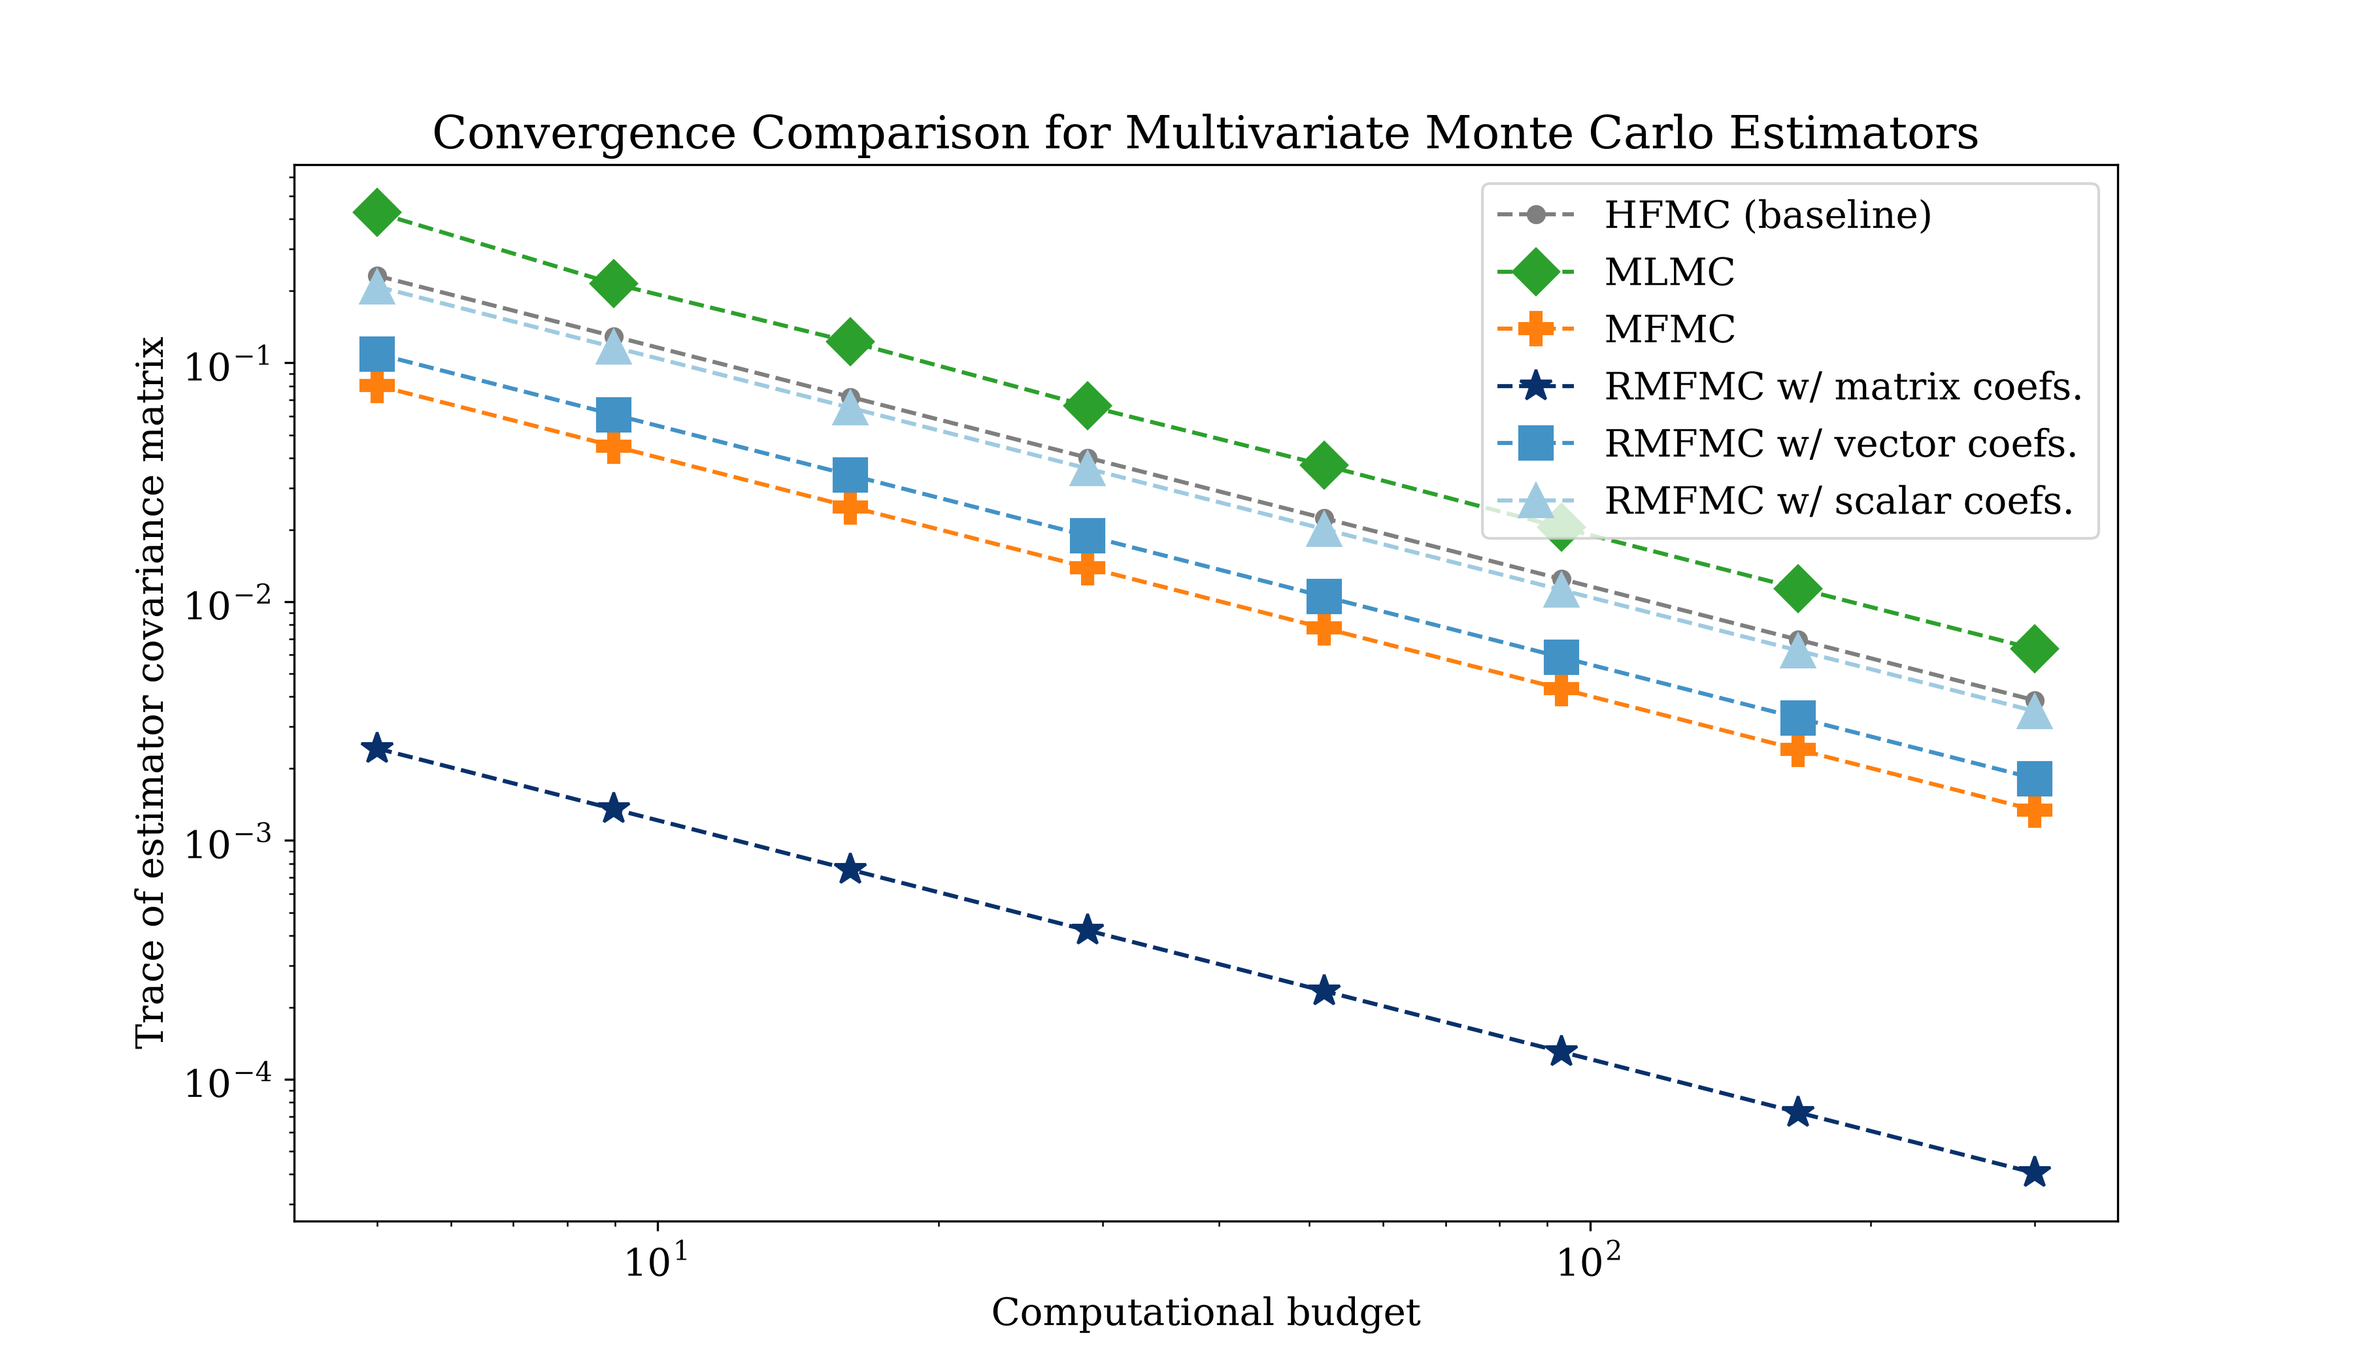
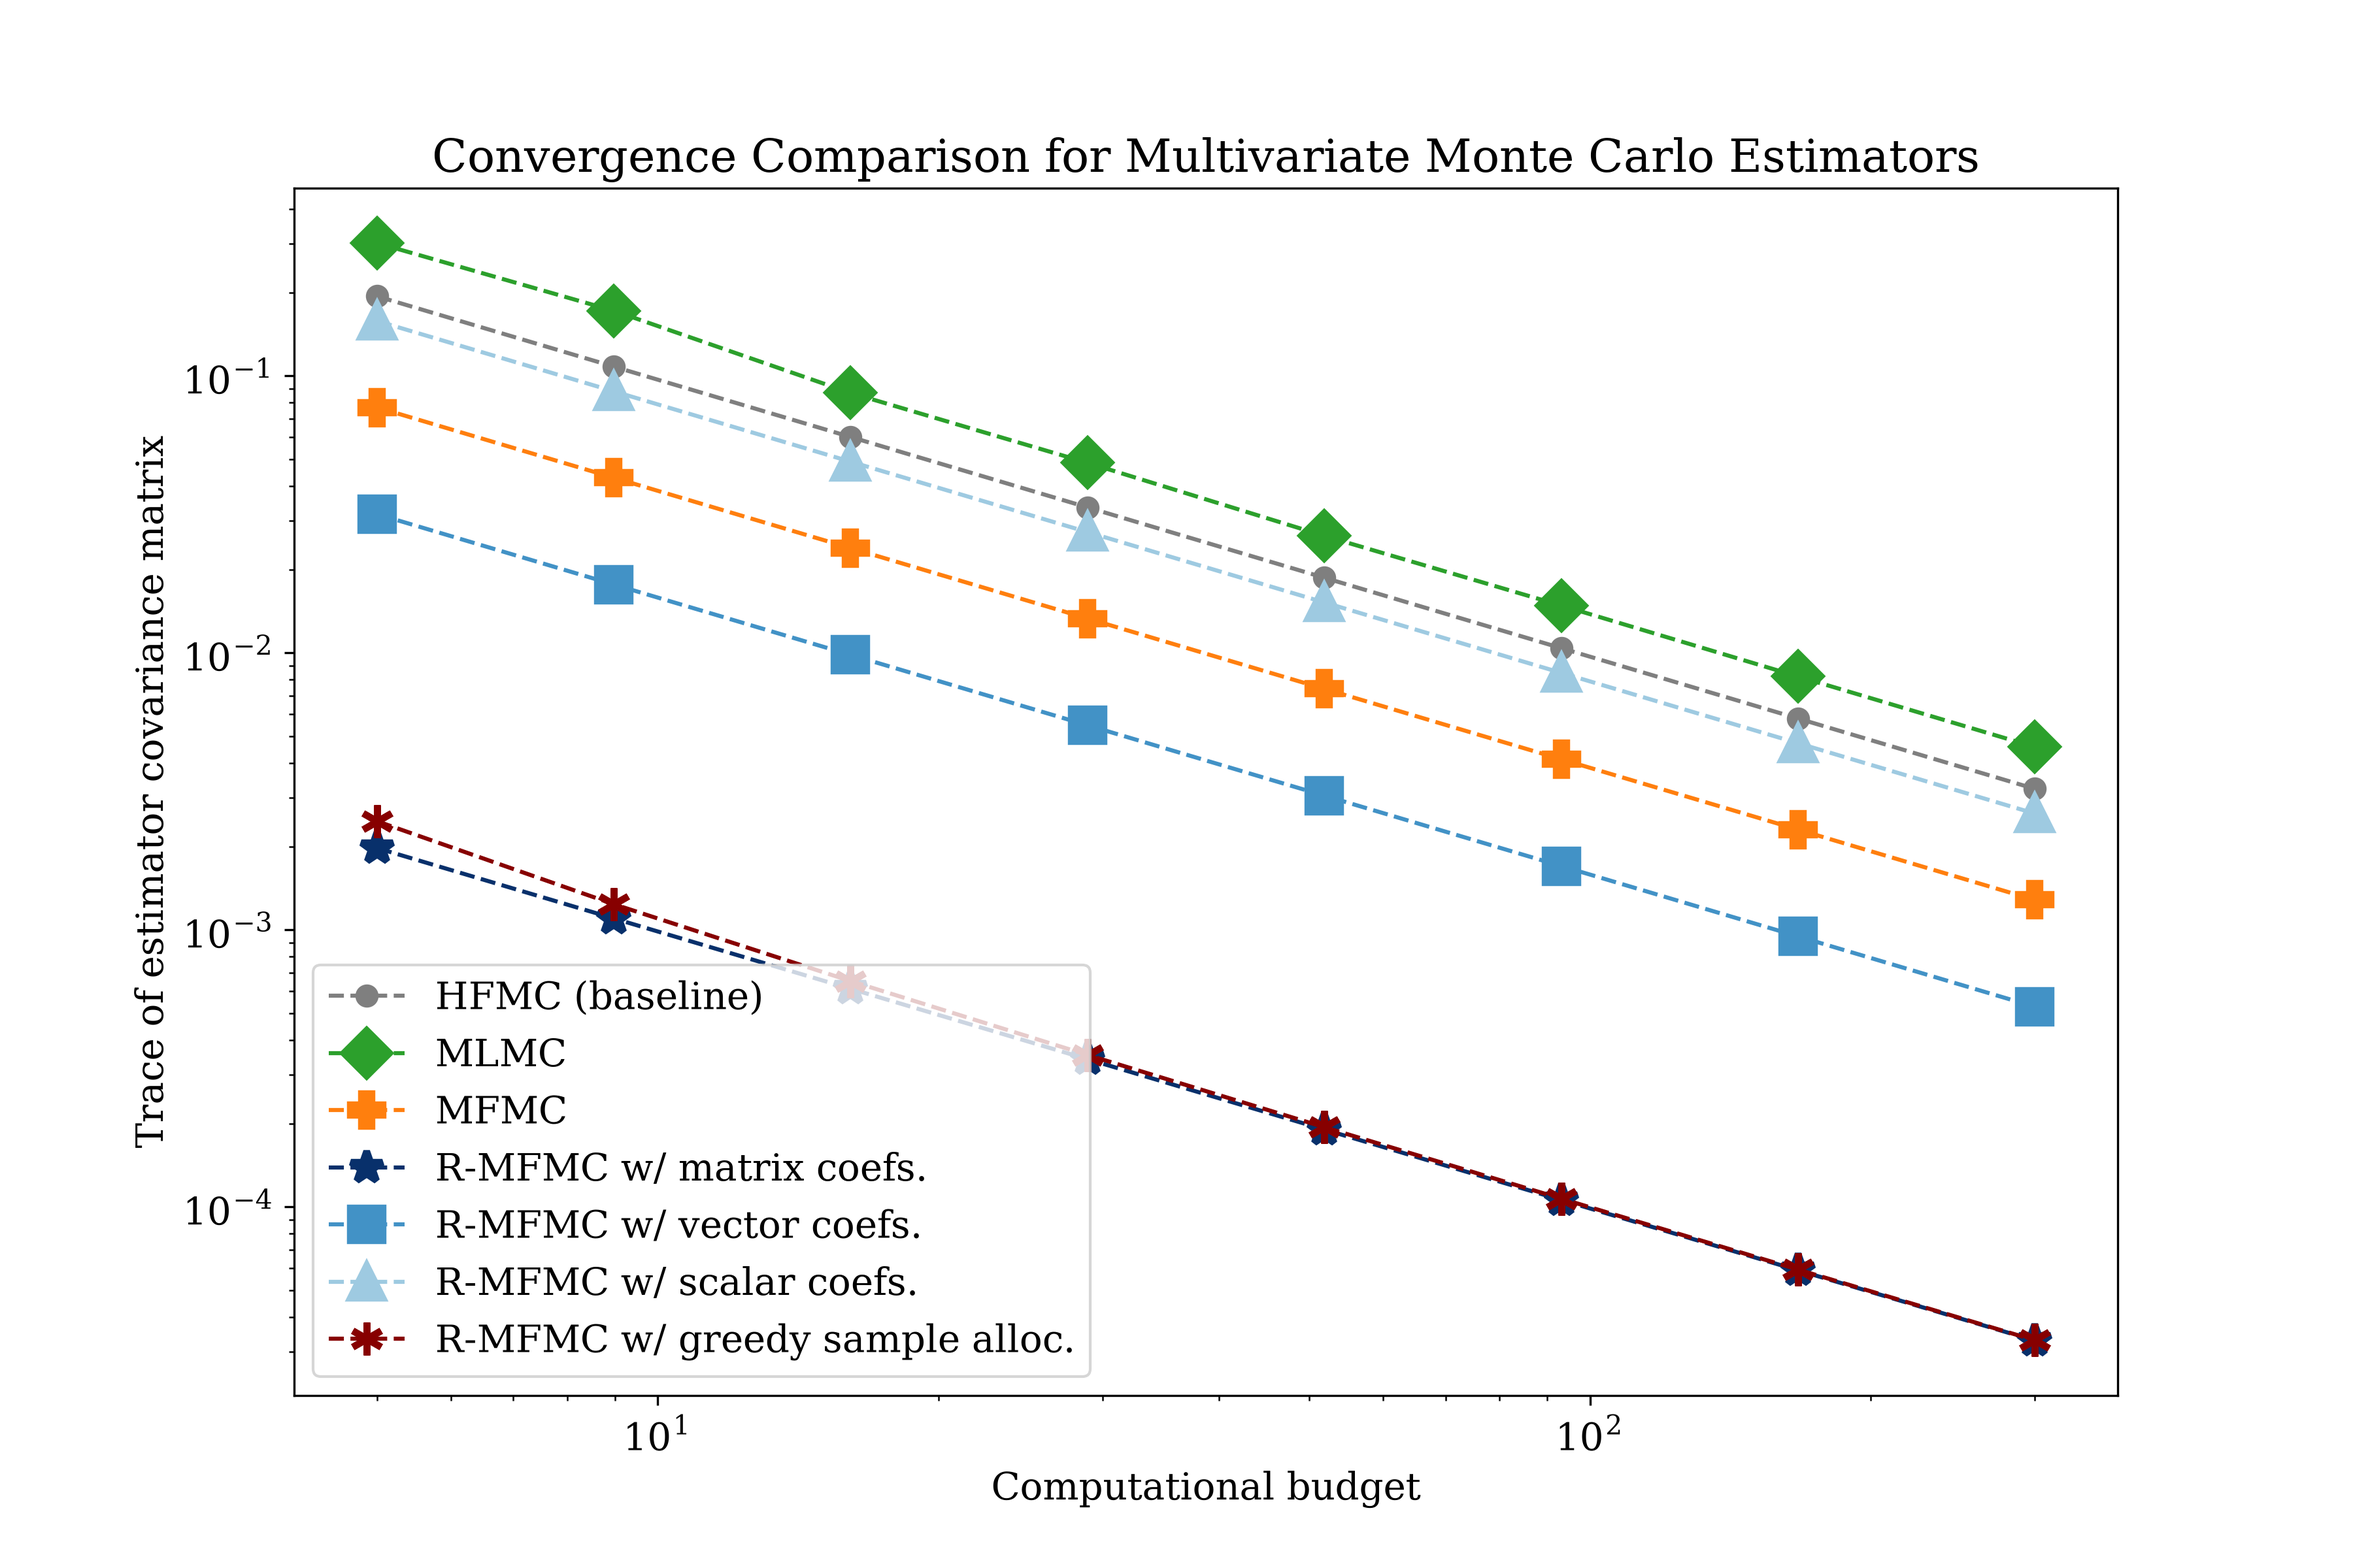
updating numerics for R-MFMC paper

diff --git a/experiments/multifidelity/monte-carlo/darcy_benchmark.py b/experiments/multifidelity/monte-carlo/darcy_benchmark.py
@@ -10,19 +10,19 @@ from matplotlib.pyplot import *
 
 
 # declaring the permeability fields
-HF_DIM, MF_DIM, LF_DIM = 64, 24, 12
+REFERENCE_DIM, HF_DIM, MF_DIM, LF_DIM = 64, 64, 32, 16
 LENGTH_SCALE, KL_TERMS, GRF_MEAN, GRF_STD = 0.15, 64, 0.0, 1.0 
 
-lf_perm = GRFInput(name='permeability', grid_dim=LF_DIM, length_scale=LENGTH_SCALE, n_kl_terms=KL_TERMS, grf_mean=GRF_MEAN, grf_std=GRF_STD, reference_grid_dim=HF_DIM)
-mf_perm = GRFInput(name='permeability', grid_dim=MF_DIM, length_scale=LENGTH_SCALE, n_kl_terms=KL_TERMS, grf_mean=GRF_MEAN, grf_std=GRF_STD, reference_grid_dim=HF_DIM)
-hf_perm = GRFInput(name='permeability', grid_dim=HF_DIM, length_scale=LENGTH_SCALE, n_kl_terms=KL_TERMS, grf_mean=GRF_MEAN, grf_std=GRF_STD, reference_grid_dim=HF_DIM)
+lf_perm = GRFInput(name='permeability', grid_dim=LF_DIM, length_scale=LENGTH_SCALE, n_kl_terms=KL_TERMS, grf_mean=GRF_MEAN, grf_std=GRF_STD, reference_grid_dim=REFERENCE_DIM)
+mf_perm = GRFInput(name='permeability', grid_dim=MF_DIM, length_scale=LENGTH_SCALE, n_kl_terms=KL_TERMS, grf_mean=GRF_MEAN, grf_std=GRF_STD, reference_grid_dim=REFERENCE_DIM)
+hf_perm = GRFInput(name='permeability', grid_dim=HF_DIM, length_scale=LENGTH_SCALE, n_kl_terms=KL_TERMS, grf_mean=GRF_MEAN, grf_std=GRF_STD, reference_grid_dim=REFERENCE_DIM)
 
 # declaring the darcy field 
 lf_darcy = DarcyFlowEvaluator(name='low-fidelity darcy flow', inputs=[lf_perm], grid_dim=LF_DIM, cost=1.4149e-04, source_term = "figs/Pi2.png")
 
 mf_darcy = DarcyFlowEvaluator(name='medium-fidelity darcy flow', inputs=[mf_perm], grid_dim=MF_DIM, cost=2.8317e-03, source_term = "figs/Pi2.png")
 
-hf_darcy = DarcyFlowEvaluator(name='medium-fidelity darcy flow', inputs=[hf_perm], grid_dim=HF_DIM, cost=4.4440e-02, source_term = "figs/Pi2.png")
+hf_darcy = DarcyFlowEvaluator(name='high-fidelity darcy flow', inputs=[hf_perm], grid_dim=HF_DIM, cost=4.4440e-02, source_term = "figs/Pi2.png")
 
 
 # visualizing the permeability, forcing, and pressure
@@ -55,7 +55,7 @@ perm_norm = dict(vmin = float(perm_hf.min()), vmax = float(perm_hf.max()))
 force_norm = dict(vmin = float(force_hf.min()), vmax = float(force_hf.max()))
 press_norm = dict(vmin = float(press_hf.min()), vmax = float(press_hf.max()))
 
-fig, axes = subplots(3, 3, figsize=(14,12), dpi = 200)
+fig, axes = subplots(3, 3, figsize=(14,12), dpi = 300)
 
 im_perm = axes[0,0].imshow(perm_hf, cmap = 'viridis', **perm_norm)
 axes[0,0].set_title("Random sample of $\\kappa(\\boldsymbol{x}; \\xi)$")
@@ -120,58 +120,62 @@ rmfmc = RMFMC(
     rcond = 1e-8
 )
 
-rmfmc.get_pilots(jrand.PRNGKey(42), n_pilots = 2000, set_costs = True)
+rmfmc.get_pilots(jrand.PRNGKey(42), n_pilots = 200, set_costs = True)
 true_covs = rmfmc.covs 
 
 #%%
-rmfmc.get_pilots(jrand.PRNGKey(43), n_pilots = 200, set_costs = False, noise_std = 1e-14)
+rmfmc.get_pilots(jrand.PRNGKey(43), n_pilots = 175, set_costs = False, noise_std = 1e-10)
 bad_covs = rmfmc.covs 
-rmfmc.get_matrix_coefs() 
-rmfmc.covs = true_covs
-rmfmc._get_info_coefs() 
 
-# %%
+# %% examining regularized least squares solve
 budget = 1.0
 
 rmfmc.l2_reg, rmfmc.rcond = 1e-8, 1e-8
 rmfmc.covs = bad_covs
 rmfmc.get_matrix_coefs() 
+rmfmc._get_info_coefs()
+good_ms = rmfmc.budget_alloc(budget, warm_start = False)
 
-ms = rmfmc.budget_alloc(budget, warm_start = False)
-rmfmc.covs = true_covs
+rmfmc.covs = true_covs 
 rmfmc._get_info_coefs() 
-print(ms)
+rmfmc_var = rmfmc.get_entry_variance(good_ms).reshape(HF_DIM, HF_DIM)
+print(good_ms)
 
-rmfmc_var = rmfmc.get_entry_variance(ms).reshape(HF_DIM, HF_DIM)
-
-# examining unregularized least squares solve 
-
-rmfmc.l2_reg, rmfmc.rcond = 0.0, 1e-300
+#%%  examining unregularized least squares solve 
+rmfmc.l2_reg, rmfmc.rcond = 3e-16, 1e-300
 rmfmc.covs = bad_covs
 rmfmc.get_matrix_coefs() 
+rmfmc._get_info_coefs()
 bad_ms = rmfmc.budget_alloc(budget, warm_start = False)
-
-
+print(bad_ms) 
 rmfmc.covs = true_covs
 rmfmc._get_info_coefs() 
-unreg_var = rmfmc.get_entry_variance(ms).reshape(HF_DIM, HF_DIM)
+unreg_var = rmfmc.get_entry_variance(bad_ms).reshape(HF_DIM, HF_DIM)
 
 
 
 hfmc = HFMC(
     evaluators = [lf_darcy, hf_darcy]
 )
+hfmc._costs = jnp.copy(rmfmc._costs)
 
 # copying over covariances so don't have to recompute
 hfmc.covs = true_covs 
 
-ms = hfmc.budget_alloc(budget)
+hf_ms = hfmc.budget_alloc(budget)
 
-hfmc_var = hfmc.get_entry_variance(ms).reshape(HF_DIM, HF_DIM)
-
+hfmc_var = hfmc.get_entry_variance(hf_ms).reshape(HF_DIM, HF_DIM)
+hf_ms 
 # %% 
+from matplotlib import colors
 
-figure(figsize=(16,4))
+# Define norm with custom min (-10), center (0), and max (80)
+
+# 2. Create the continuous colormap
+
+# norm = colors.TwoSlopeNorm(vcenter=1.0, vmin=0, vmax=(hfmc_var / rmfmc_var).max())
+
+figure(figsize=(16,4), dpi = 300)
 subplot(1,3,1)
 imshow(jnp.diag(true_covs[-1][-1]).reshape(HF_DIM, HF_DIM) / jnp.diag(true_covs[-1][-1]).max(), cmap = "Oranges", vmin=0.0, vmax = 1.0)
 colorbar()
@@ -179,26 +183,14 @@ title("High-Fidelity Variance")
 xticks([]); yticks([])
 
 subplot(1,3,2)
-imshow(hfmc_var / unreg_var, cmap = "YlGnBu", vmin=0.0, vmax = (hfmc_var / rmfmc_var).max())
+imshow(hfmc_var / unreg_var, cmap = "GnBu", vmin = 1.0, vmax = (hfmc_var/rmfmc_var).max())
 colorbar()
-title("Unregularized \nVariance Reduction")
+title("R-MFMC Variance Reduction\nWithout Regularization")
 xticks([]); yticks([])
 
 subplot(1,3,3)
-imshow(hfmc_var / rmfmc_var, cmap = "YlGnBu", vmin=0.0, vmax = (hfmc_var / rmfmc_var).max())
+imshow(hfmc_var / rmfmc_var, cmap = "GnBu", vmin = 1.0, vmax = (hfmc_var/rmfmc_var).max())
 colorbar()
-title("Regularized \nVariance Reduction")
+title("R-MFMC Variance Reduction\nwith Regularization")
 xticks([]); yticks([])
-
-# %% making the high-fidelity covariance poorly scaled
-
-U, S, _ = np.linalg.svd(jnp.block([row[0:2] for row in rmfmc.covs[0:2]]), full_matrices = True)
-
-S[S <= 2e-16] = 2e-16
-
 # %%
-figure() 
-semilogy(S / S[0])
-title("Singular value decay of high-fidelity variance")
-xlabel("Singular value index")
-ylabel("Relative singular values $\\sigma_i / \\sigma_0$")

diff --git a/experiments/multifidelity/monte-carlo/legendre_benchmark.py b/experiments/multifidelity/monte-carlo/legendre_benchmark.py
@@ -85,7 +85,7 @@ from tqdm import tqdm
 
 budgets = jnp.logspace(jnp.log10(5), jnp.log10(300), num = 8) 
 
-estimator_vars = np.zeros((6, budgets.shape[0]))
+estimator_vars = np.zeros((7, budgets.shape[0]))
 
 l2_reg, rcond = 1e-6, 1e-8 
 
@@ -165,6 +165,14 @@ for i, budget in tqdm(enumerate(budgets), total = budgets.shape[0]):
     ms = rmfmc._budget_fractional_alloc(budget)
     vars.append(rmfmc._get_variance(ms)) 
 
+    # rmfmc with matrix coefs and integer sample allocations 
+    rmfmc.covs = pilot_covs  
+    rmfmc.get_matrix_coefs()
+    rmfmc.covs = true_covs 
+    rmfmc._get_info_coefs() 
+    # ms = rmfmc.budget_alloc(budget, warm_start = False) 
+    ms = rmfmc.budget_alloc(budget, warm_start = False) 
+    vars.append(rmfmc._get_variance(ms)) 
 
 
     # storing the estimator variances for the specific budget
@@ -173,7 +181,6 @@ for i, budget in tqdm(enumerate(budgets), total = budgets.shape[0]):
 
 # %% plotting 
 from matplotlib.pyplot import * 
-
 
 rcParams.update(
     {
@@ -189,15 +196,15 @@ rcParams.update(
     }
 )
 
-labels = ["HFMC (baseline)", "MLMC", "MFMC", "R-MFMC w/ matrix coefs.", "R-MFMC w/ vector coefs.", "R-MFMC w/ scalar coefs." ]
-markers = ['.', "D", "P", '*', 's', "^", ]
+labels = ["HFMC (baseline)", "MLMC", "MFMC", "R-MFMC w/ matrix coefs.", "R-MFMC w/ vector coefs.", "R-MFMC w/ scalar coefs.", "R-MFMC w/ greedy sample alloc."]
+markers = ['.', "D", "P", '*', 's', "^", (6,2,0)]
 # the three RMFMC variants share a blue family (dark -> light, richest -> simplest
 # coefficients), while HFMC/MFMC/MLMC each get a distinct matplotlib default color
-colors = ['#7f7f7f', '#2ca02c', '#ff7f0e', '#08306b', '#4292c6', '#9ecae1']
+colors = ['#7f7f7f', '#2ca02c', '#ff7f0e', '#08306b', '#4292c6', '#9ecae1', "#870000"]
 
-figure(figsize=(12,7), dpi = 300) 
+figure(figsize=(12,8), dpi = 300) 
 for i in range(estimator_vars.shape[0]):
-    loglog(budgets, estimator_vars[i], linestyle = 'dashed', marker = markers[i], label = labels[i], markersize=12, color = colors[i])
+    loglog(budgets, estimator_vars[i], linestyle = 'dashed', marker = markers[i], label = labels[i], markersize=12, color = colors[i], markeredgewidth=2.5)
 
 legend() 
 xlabel("Computational budget")

diff --git a/src/elyza/benchmarks/pde/darcy2d.py b/src/elyza/benchmarks/pde/darcy2d.py
@@ -18,13 +18,12 @@ def build_image_source(path, grid_dim, inflation = 1.0):
     # uncomment for 3-channel RGB image 
     # ---------------------------------------------------------------------
     image = image[:,:,:3].mean(axis=2).astype(np.float64)
-    image = image / np.max(image)
+    image = image / np.max(image) # scaling to [0,1]
+
 
     # negating and scaling to [-1,1] 
-    image = -image+1
-
-
-    image *= inflation 
+    image = -2*image +1
+    # image *= inflation 
 
     # # threshold for images to generate more interesting force fields
     # thresh = 0.5
@@ -34,15 +33,16 @@ def build_image_source(path, grid_dim, inflation = 1.0):
     # # inflating source term 
     # image *= 2.0
     # ---------------------------------------------------------------------
-
+    # zooming to make square 
     image = ndimage.zoom(image, (grid_dim/height, grid_dim/width), order=3)
 
 
-    image[image <= 0] = 0.0
-    image *= 2 
-    image = 1/(1+np.exp(-image))
+    # image[image <= 0] = 0.0
+    image = jnp.exp(image)
+    
 
-    # zooming to make square 
+    image = jnp.tanh(1 * image) 
+    image = (image - image.min()) / (np.max(image) - np.min(image)) 
     return image
 
 def get_field(key, grf_mean, grf_std, scaled_eigenvecs, n_kl):

diff --git a/src/elyza/core/evaluator.py b/src/elyza/core/evaluator.py
@@ -44,8 +44,11 @@ class Evaluator(BaseModel):
     '''
     input_vals is a list of arrays of inputs assumed to be valid for the evaluator, where the shape of each list item is (# of data points, input dimension).
     '''
-    def evaluate(self, *input_vals):
-        return vmap(self.evaluation_func, in_axes=[0]*len(input_vals))(*input_vals).block_until_ready().reshape(-1,self.output_dim)
+    def evaluate(self, *input_vals, jit_compile = False):
+        if jit_compile:
+            return jit(vmap(self.evaluation_func, in_axes=[0]*len(input_vals))(*input_vals).block_until_ready().reshape(-1,self.output_dim))
+        else:
+            return vmap(self.evaluation_func, in_axes=[0]*len(input_vals))(*input_vals).block_until_ready().reshape(-1,self.output_dim)
 
     def print(self):
         print("\n------------------------------------------------")
